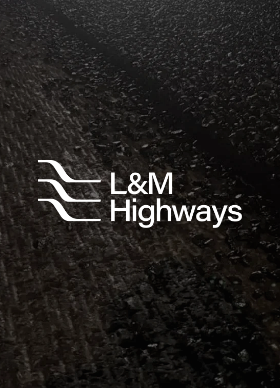
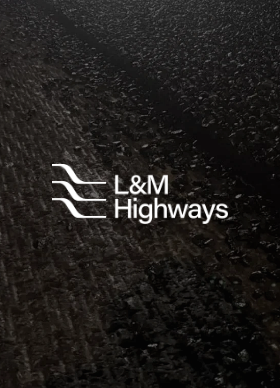
Fit the signature inside a phone screen without wrapping (#73)
A phone viewport is about 354px, so at 431px the block still had to wrap,
and it wrapped in the worst place — between a label and its number.

Three changes take it to 323px, inside the screen with room to spare: the
company name comes off the role line (the panel and the strapline both say
it already), the two numbers get a line each so a label can never be split
from its number, and the strapline breaks where it reads as a phrase rather
than wherever the screen runs out. Logo panel down to 120px to match.

Claude-Session: https://claude.ai/code/session_01FyRVMNuwiRMWsyBru73wYF

Changed region(s): [[0.1429, 0.4021, 0.8857, 0.5876]]

diff --git a/signature.html b/signature.html
@@ -58,22 +58,24 @@
     <div style="padding:1.5rem 0;min-width:max-content;">
     <table cellpadding="0" cellspacing="0" border="0" style="border-collapse:collapse;">
       <tr>
-        <td valign="middle" style="vertical-align:middle;"><a href="https://lmhighways.co.uk" style="text-decoration:none;"><img src="https://lmhighways.co.uk/assets/signature-mark@2x.png?v=3" width="140" height="194" alt="L&amp;M Highways" border="0" style="display:block;border:0;width:140px;height:194px;"></a></td>
-        <td width="24" style="width:24px;">&nbsp;</td>
+        <td valign="middle" style="vertical-align:middle;"><a href="https://lmhighways.co.uk" style="text-decoration:none;"><img src="https://lmhighways.co.uk/assets/signature-mark@2x.png?v=4" width="120" height="235" alt="L&amp;M Highways" border="0" style="display:block;border:0;width:120px;height:235px;"></a></td>
+        <td width="22" style="width:22px;">&nbsp;</td>
         <td valign="middle" style="vertical-align:middle;">
           <table cellpadding="0" cellspacing="0" border="0" style="border-collapse:collapse;">
             <tr><td height="20" style="height:20px;line-height:20px;font-size:20px;">&nbsp;</td></tr>
             <tr><td><font face="Arial, Helvetica, sans-serif" size="4" color="#0A0A0B" style="font-size:19px;"><b>LEVI KING</b></font></td></tr>
             <tr><td height="6" style="height:6px;line-height:6px;font-size:6px;">&nbsp;</td></tr>
-            <tr><td><font face="Arial, Helvetica, sans-serif" size="1" color="#6B6A66" style="font-size:11px;">MANAGING DIRECTOR &nbsp;&middot;&nbsp; L&amp;M HIGHWAYS LIMITED</font></td></tr>
+            <tr><td><font face="Arial, Helvetica, sans-serif" size="1" color="#6B6A66" style="font-size:11px;">MANAGING DIRECTOR</font></td></tr>
             <tr><td height="12" style="height:12px;line-height:12px;font-size:12px;">&nbsp;</td></tr>
-            <tr><td><font face="Arial, Helvetica, sans-serif" size="2" color="#0A0A0B" style="font-size:13px;"><font color="#8C8B87" style="color:#8C8B87;">T</font> &nbsp;<a href="tel:+441638493555" style="color:#0A0A0B;text-decoration:none;"><font color="#0A0A0B">01638 493555</font></a> &nbsp;&nbsp;<font color="#C4C3BF">|</font>&nbsp;&nbsp; <font color="#8C8B87" style="color:#8C8B87;">M</font> &nbsp;<a href="tel:+447828092825" style="color:#0A0A0B;text-decoration:none;"><font color="#0A0A0B">07828 092825</font></a></font></td></tr>
+            <tr><td><font face="Arial, Helvetica, sans-serif" size="2" color="#0A0A0B" style="font-size:13px;"><font color="#8C8B87" style="color:#8C8B87;">T</font> &nbsp;<a href="tel:+441638493555" style="color:#0A0A0B;text-decoration:none;"><font color="#0A0A0B">01638 493555</font></a></font></td></tr>
+            <tr><td height="5" style="height:5px;line-height:5px;font-size:5px;">&nbsp;</td></tr>
+            <tr><td><font face="Arial, Helvetica, sans-serif" size="2" color="#0A0A0B" style="font-size:13px;"><font color="#8C8B87" style="color:#8C8B87;">M</font> &nbsp;<a href="tel:+447828092825" style="color:#0A0A0B;text-decoration:none;"><font color="#0A0A0B">07828 092825</font></a></font></td></tr>
             <tr><td height="5" style="height:5px;line-height:5px;font-size:5px;">&nbsp;</td></tr>
             <tr><td><font face="Arial, Helvetica, sans-serif" size="2" color="#0A0A0B" style="font-size:13px;"><font color="#8C8B87" style="color:#8C8B87;">E</font> &nbsp;<a href="mailto:lmhighwaysltd@outlook.com" style="color:#0A0A0B;text-decoration:none;"><font color="#0A0A0B">lmhighwaysltd@outlook.com</font></a></font></td></tr>
             <tr><td height="5" style="height:5px;line-height:5px;font-size:5px;">&nbsp;</td></tr>
             <tr><td><font face="Arial, Helvetica, sans-serif" size="2" color="#0A0A0B" style="font-size:13px;"><font color="#8C8B87" style="color:#8C8B87;">W</font> &nbsp;<a href="https://lmhighways.co.uk" style="color:#0A0A0B;text-decoration:none;"><font color="#0A0A0B"><b>lmhighways.co.uk</b></font></a></font></td></tr>
             <tr><td height="14" style="height:14px;line-height:14px;font-size:14px;">&nbsp;</td></tr>
-            <tr><td><font face="Arial, Helvetica, sans-serif" size="1" color="#6B6A66" style="font-size:10px;">COMMERCIAL &amp; DOMESTIC SURFACING CONTRACTOR</font></td></tr>
+            <tr><td><font face="Arial, Helvetica, sans-serif" size="1" color="#6B6A66" style="font-size:10px;">COMMERCIAL &amp; DOMESTIC<br>SURFACING CONTRACTOR</font></td></tr>
             <tr><td height="20" style="height:20px;line-height:20px;font-size:20px;">&nbsp;</td></tr>
           </table>
         </td>
@@ -84,7 +86,7 @@
     <p class="edge-note">to here</p>
   </div>
 
-  <p class="note">Outlook underlines links in its own blue or black once pasted, and the Gmail app on a phone ignores the greys and sets every line in black. Both are the mail app’s own doing and cannot be overridden from a signature, so the ranking is carried by size, capitals and weight as well as colour — it still reads correctly when a client flattens it. The whole signature is 431px wide, which fits a phone screen without being shrunk to fit.</p>
+  <p class="note">Outlook underlines links in its own blue or black once pasted, and the Gmail app on a phone ignores the greys and sets every line in black. Both are the mail app’s own doing and cannot be overridden from a signature, so the ranking is carried by size, capitals and weight as well as colour — it still reads correctly when a client flattens it. The whole signature is 323px wide, which is inside a phone screen, so nothing has to wrap or shrink to fit.</p>
 
   <div class="alt">
     <h2>If pasting gives you trouble</h2>
